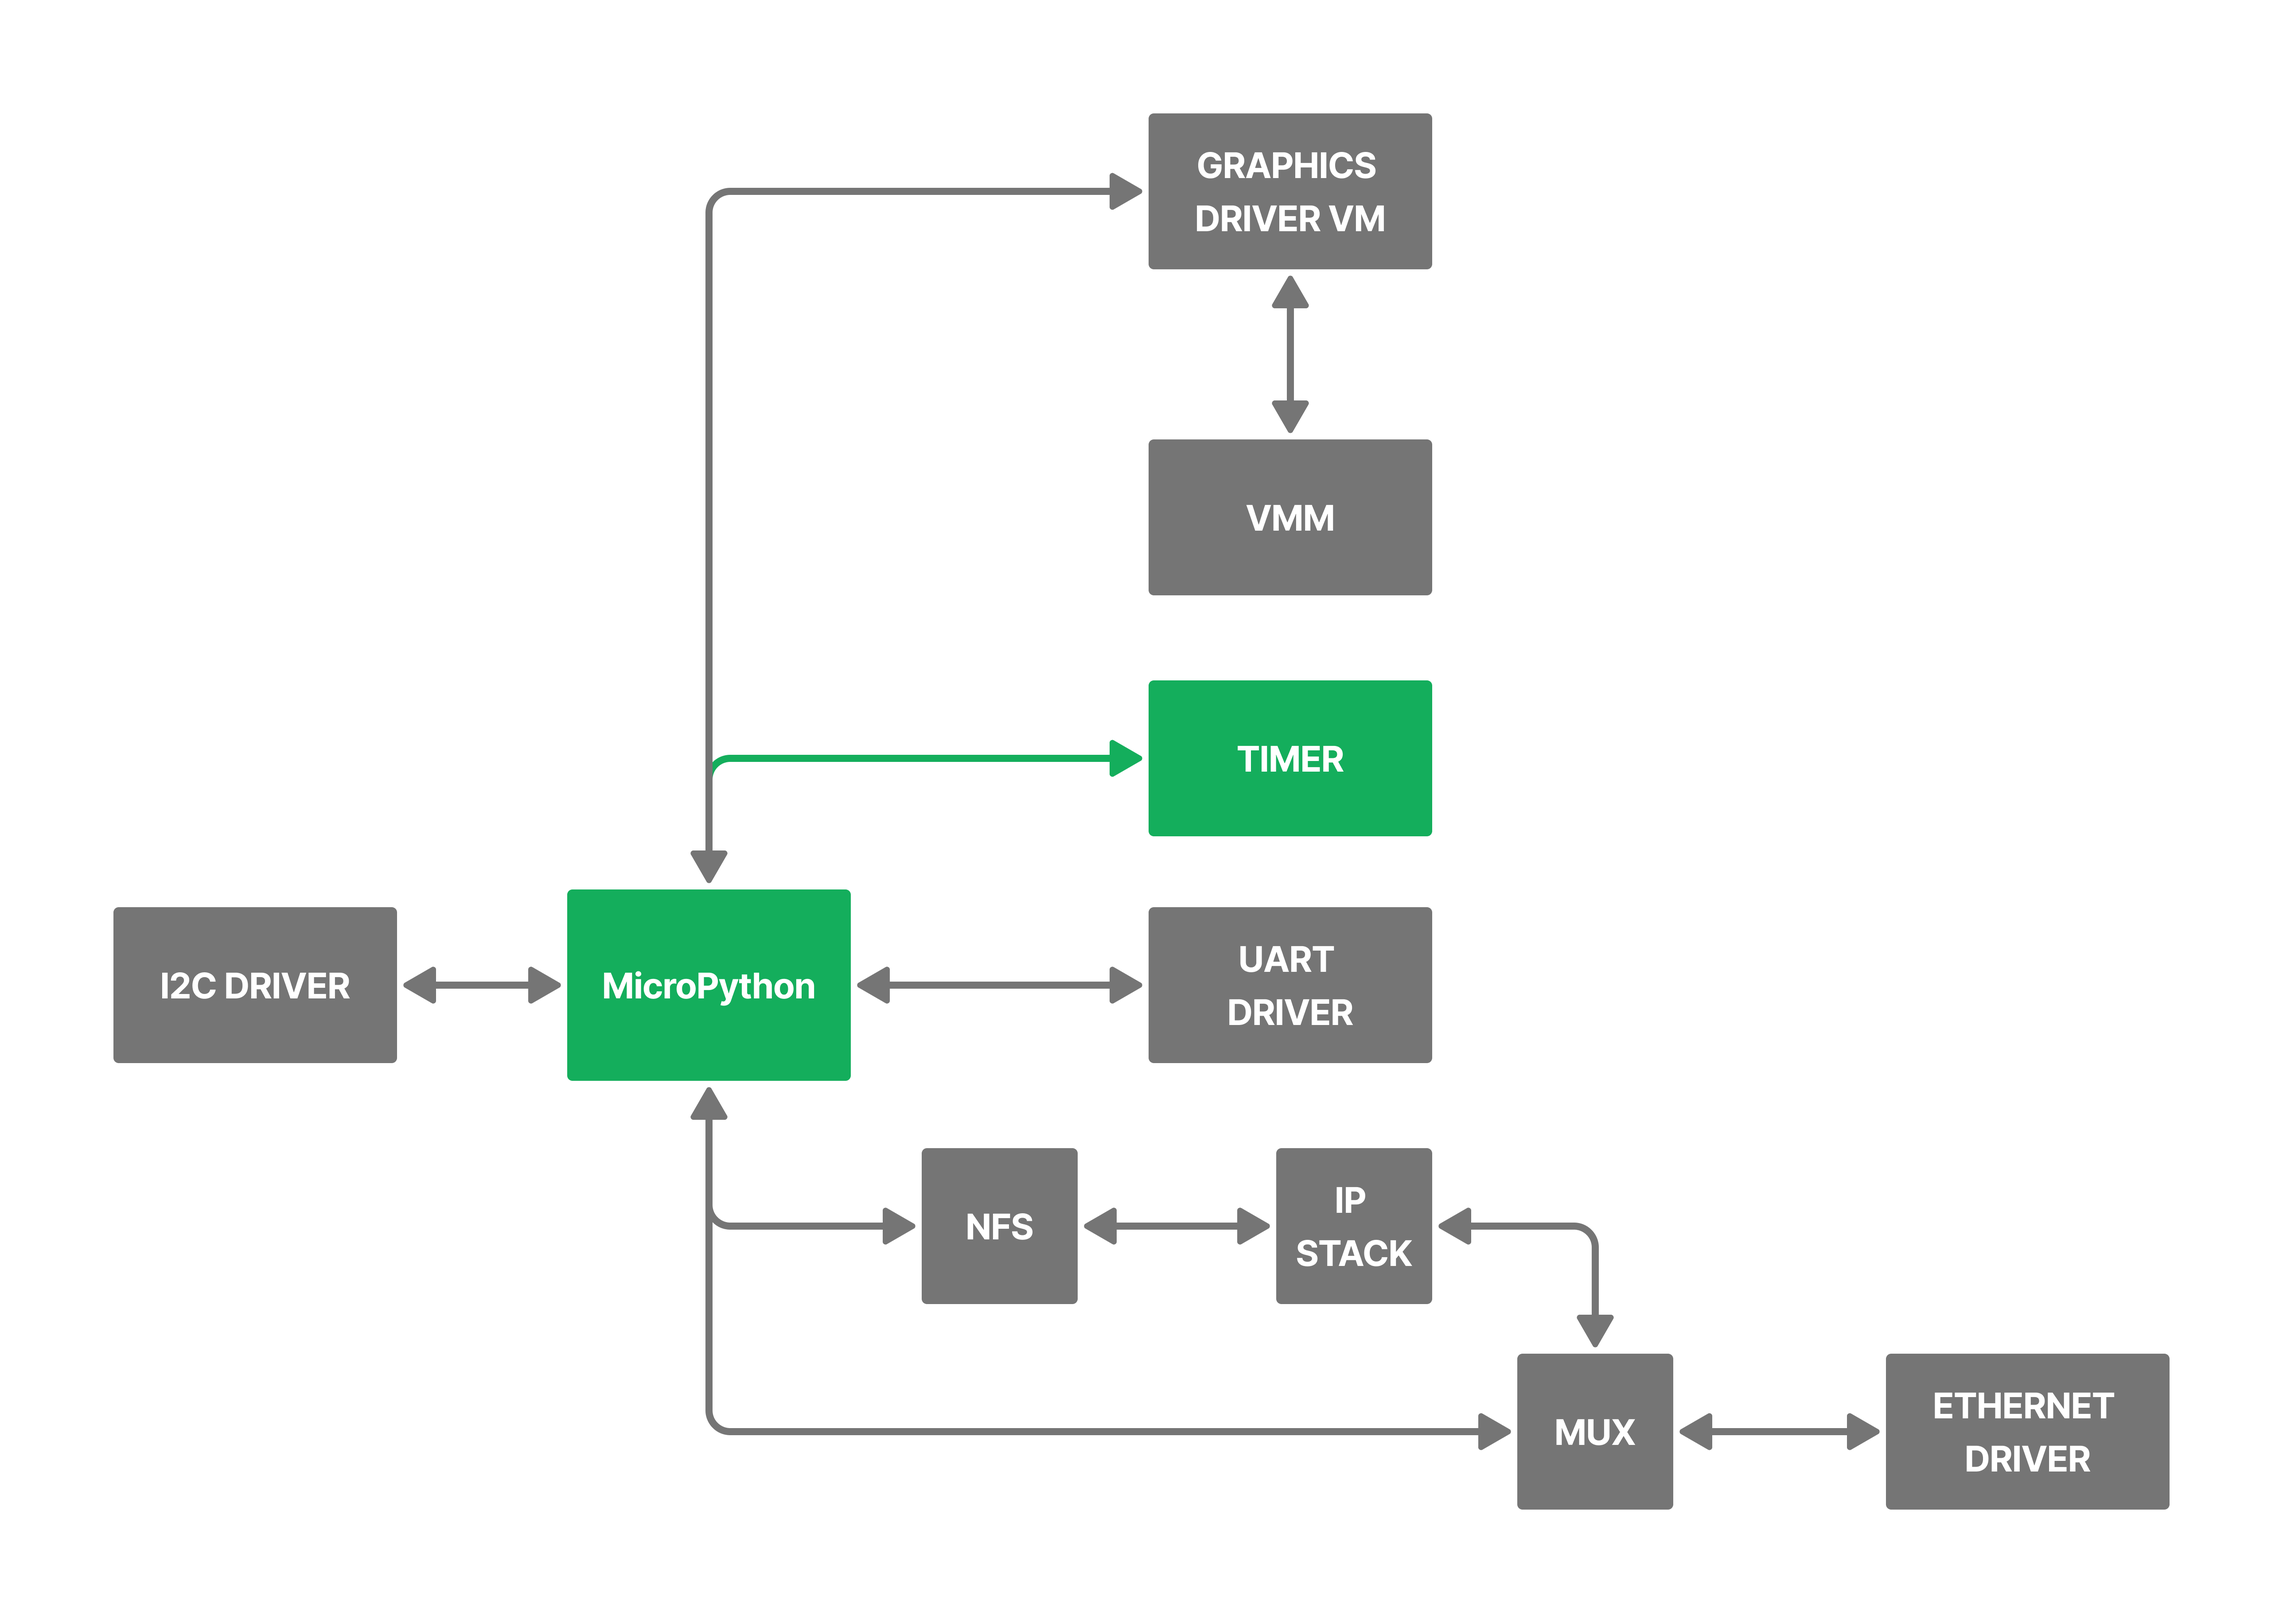
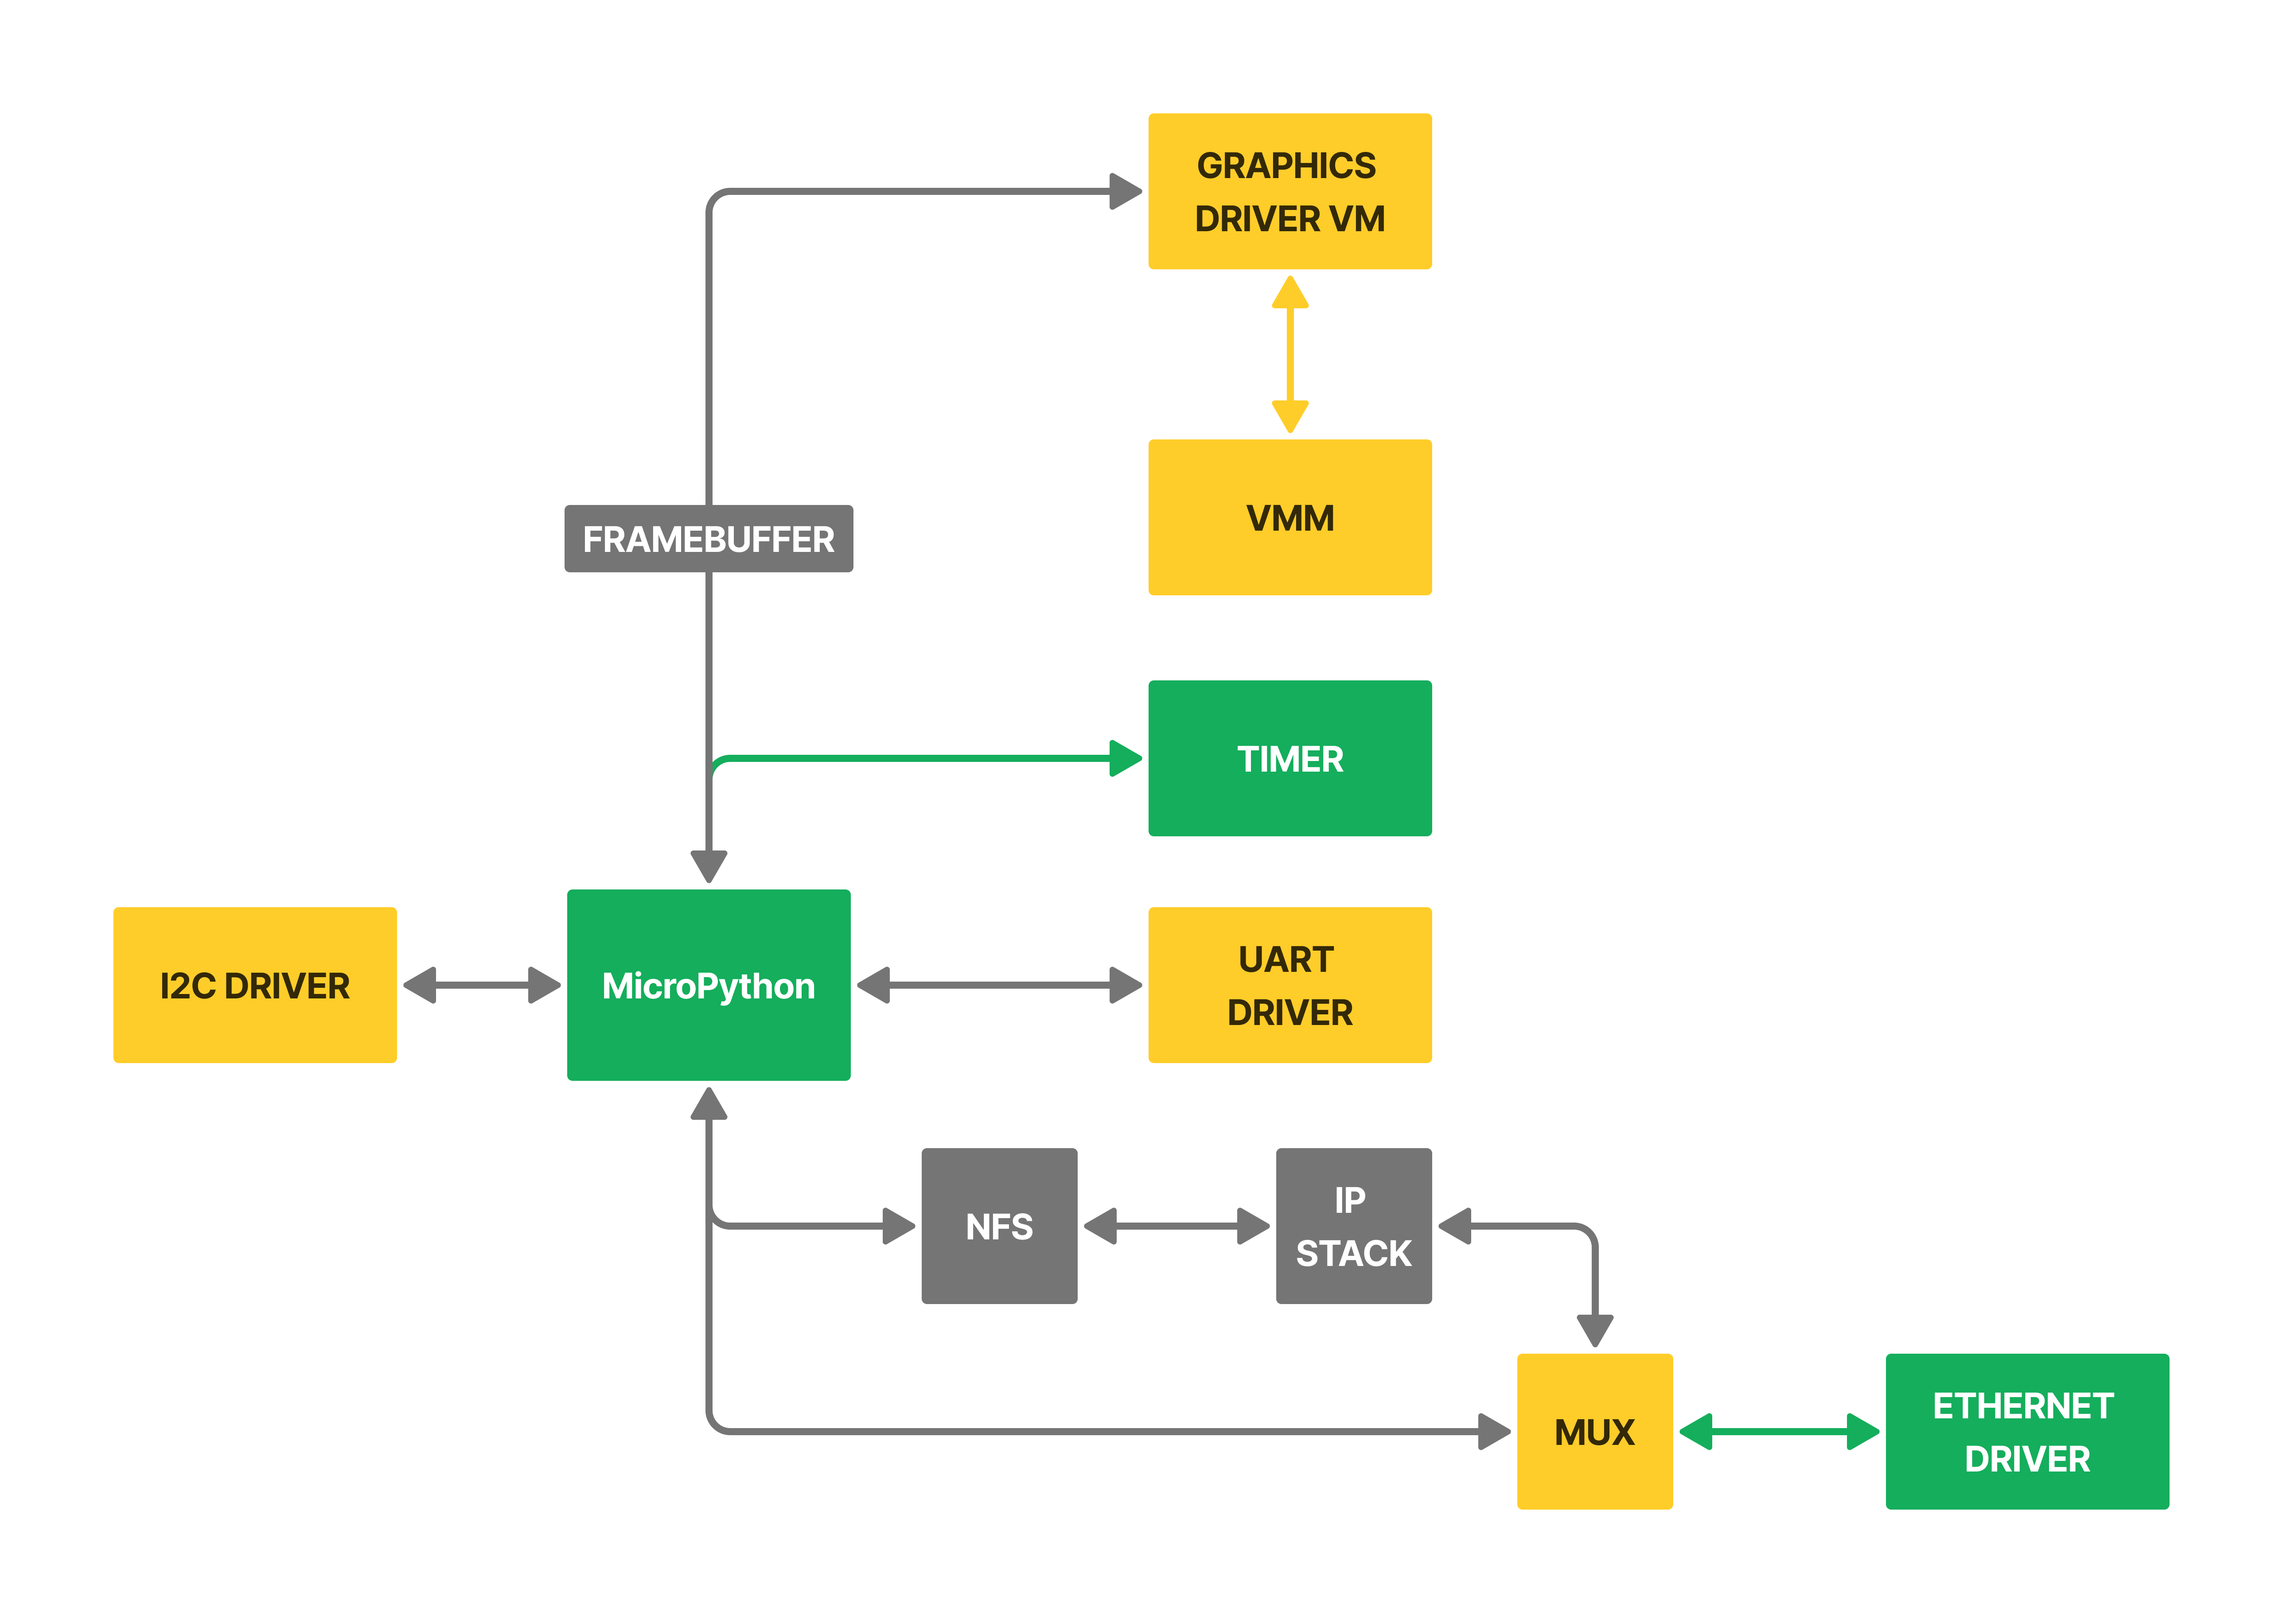
Update architecture diagram

diff --git a/README.md b/README.md
@@ -14,7 +14,8 @@ repositories. In the future, we might change the structure but for now we will u
 Git submodules to version control KISS.
 
 Here is the current status (done in green) and the components that we still need
-to build and integrate (in gray).
+to build and integrate (in gray). In-progress or almost done components are in
+yellow.
 
 ![Kitty status](docs/kitty.png)
 
